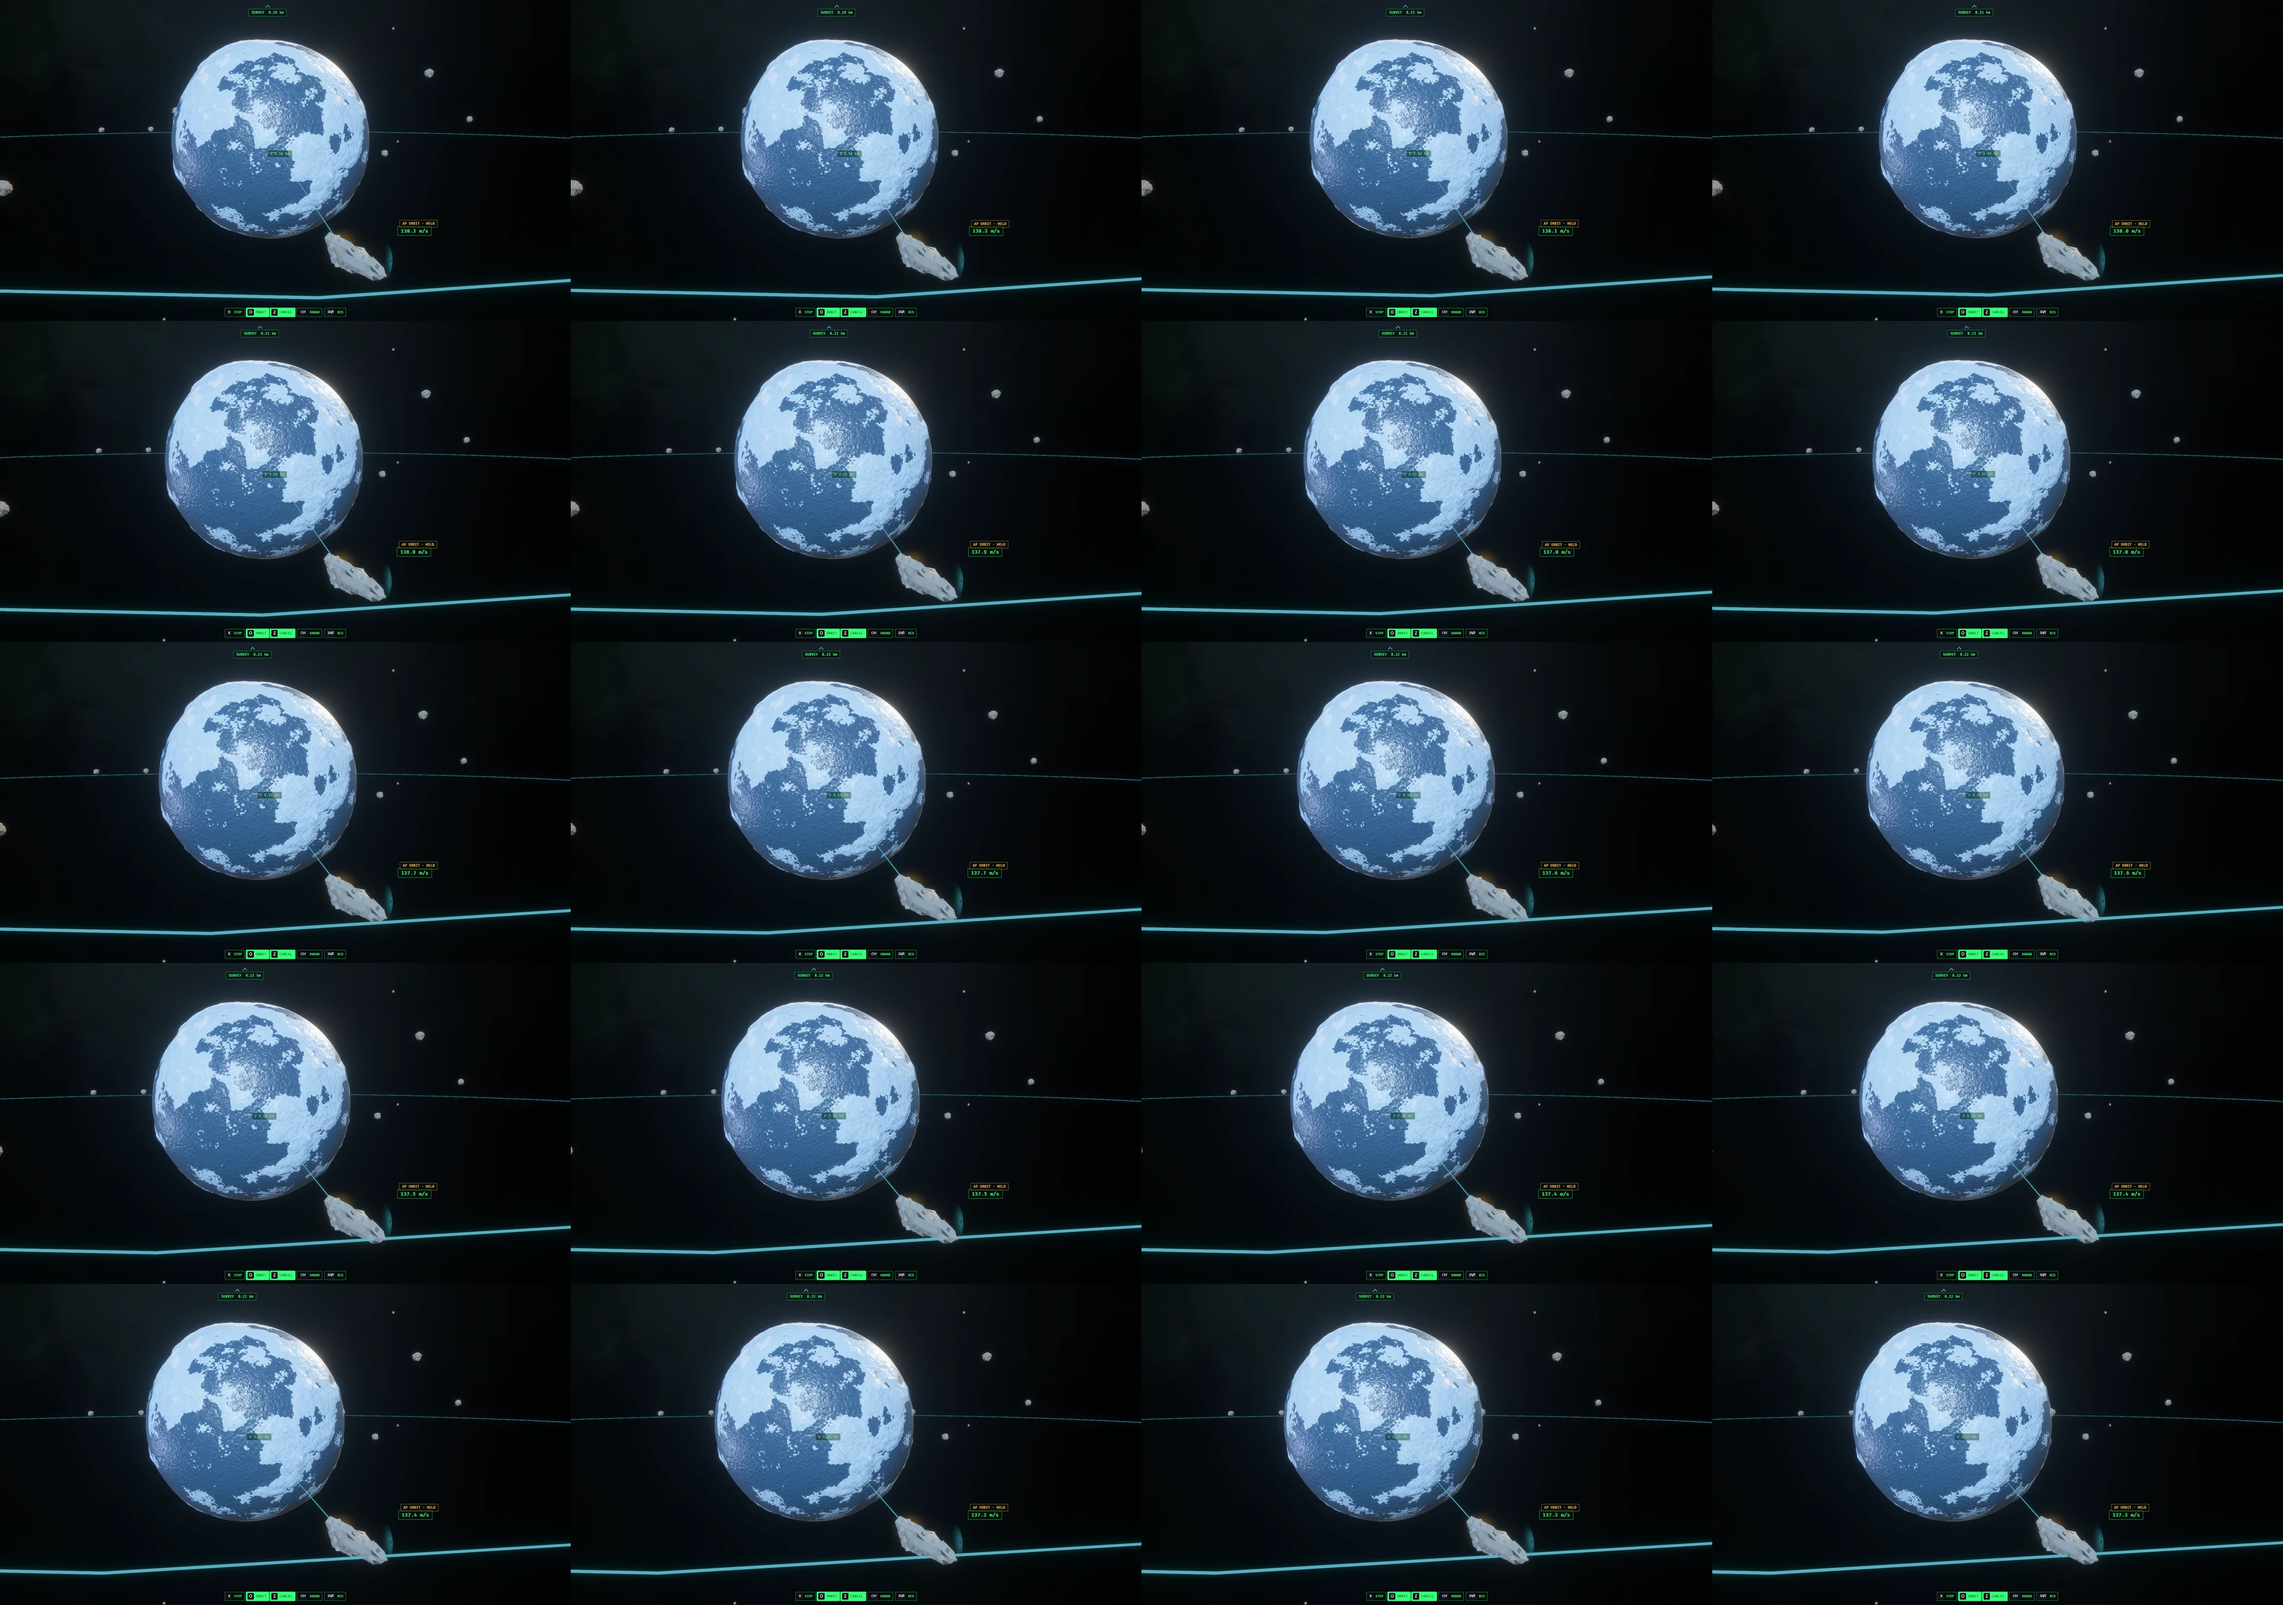
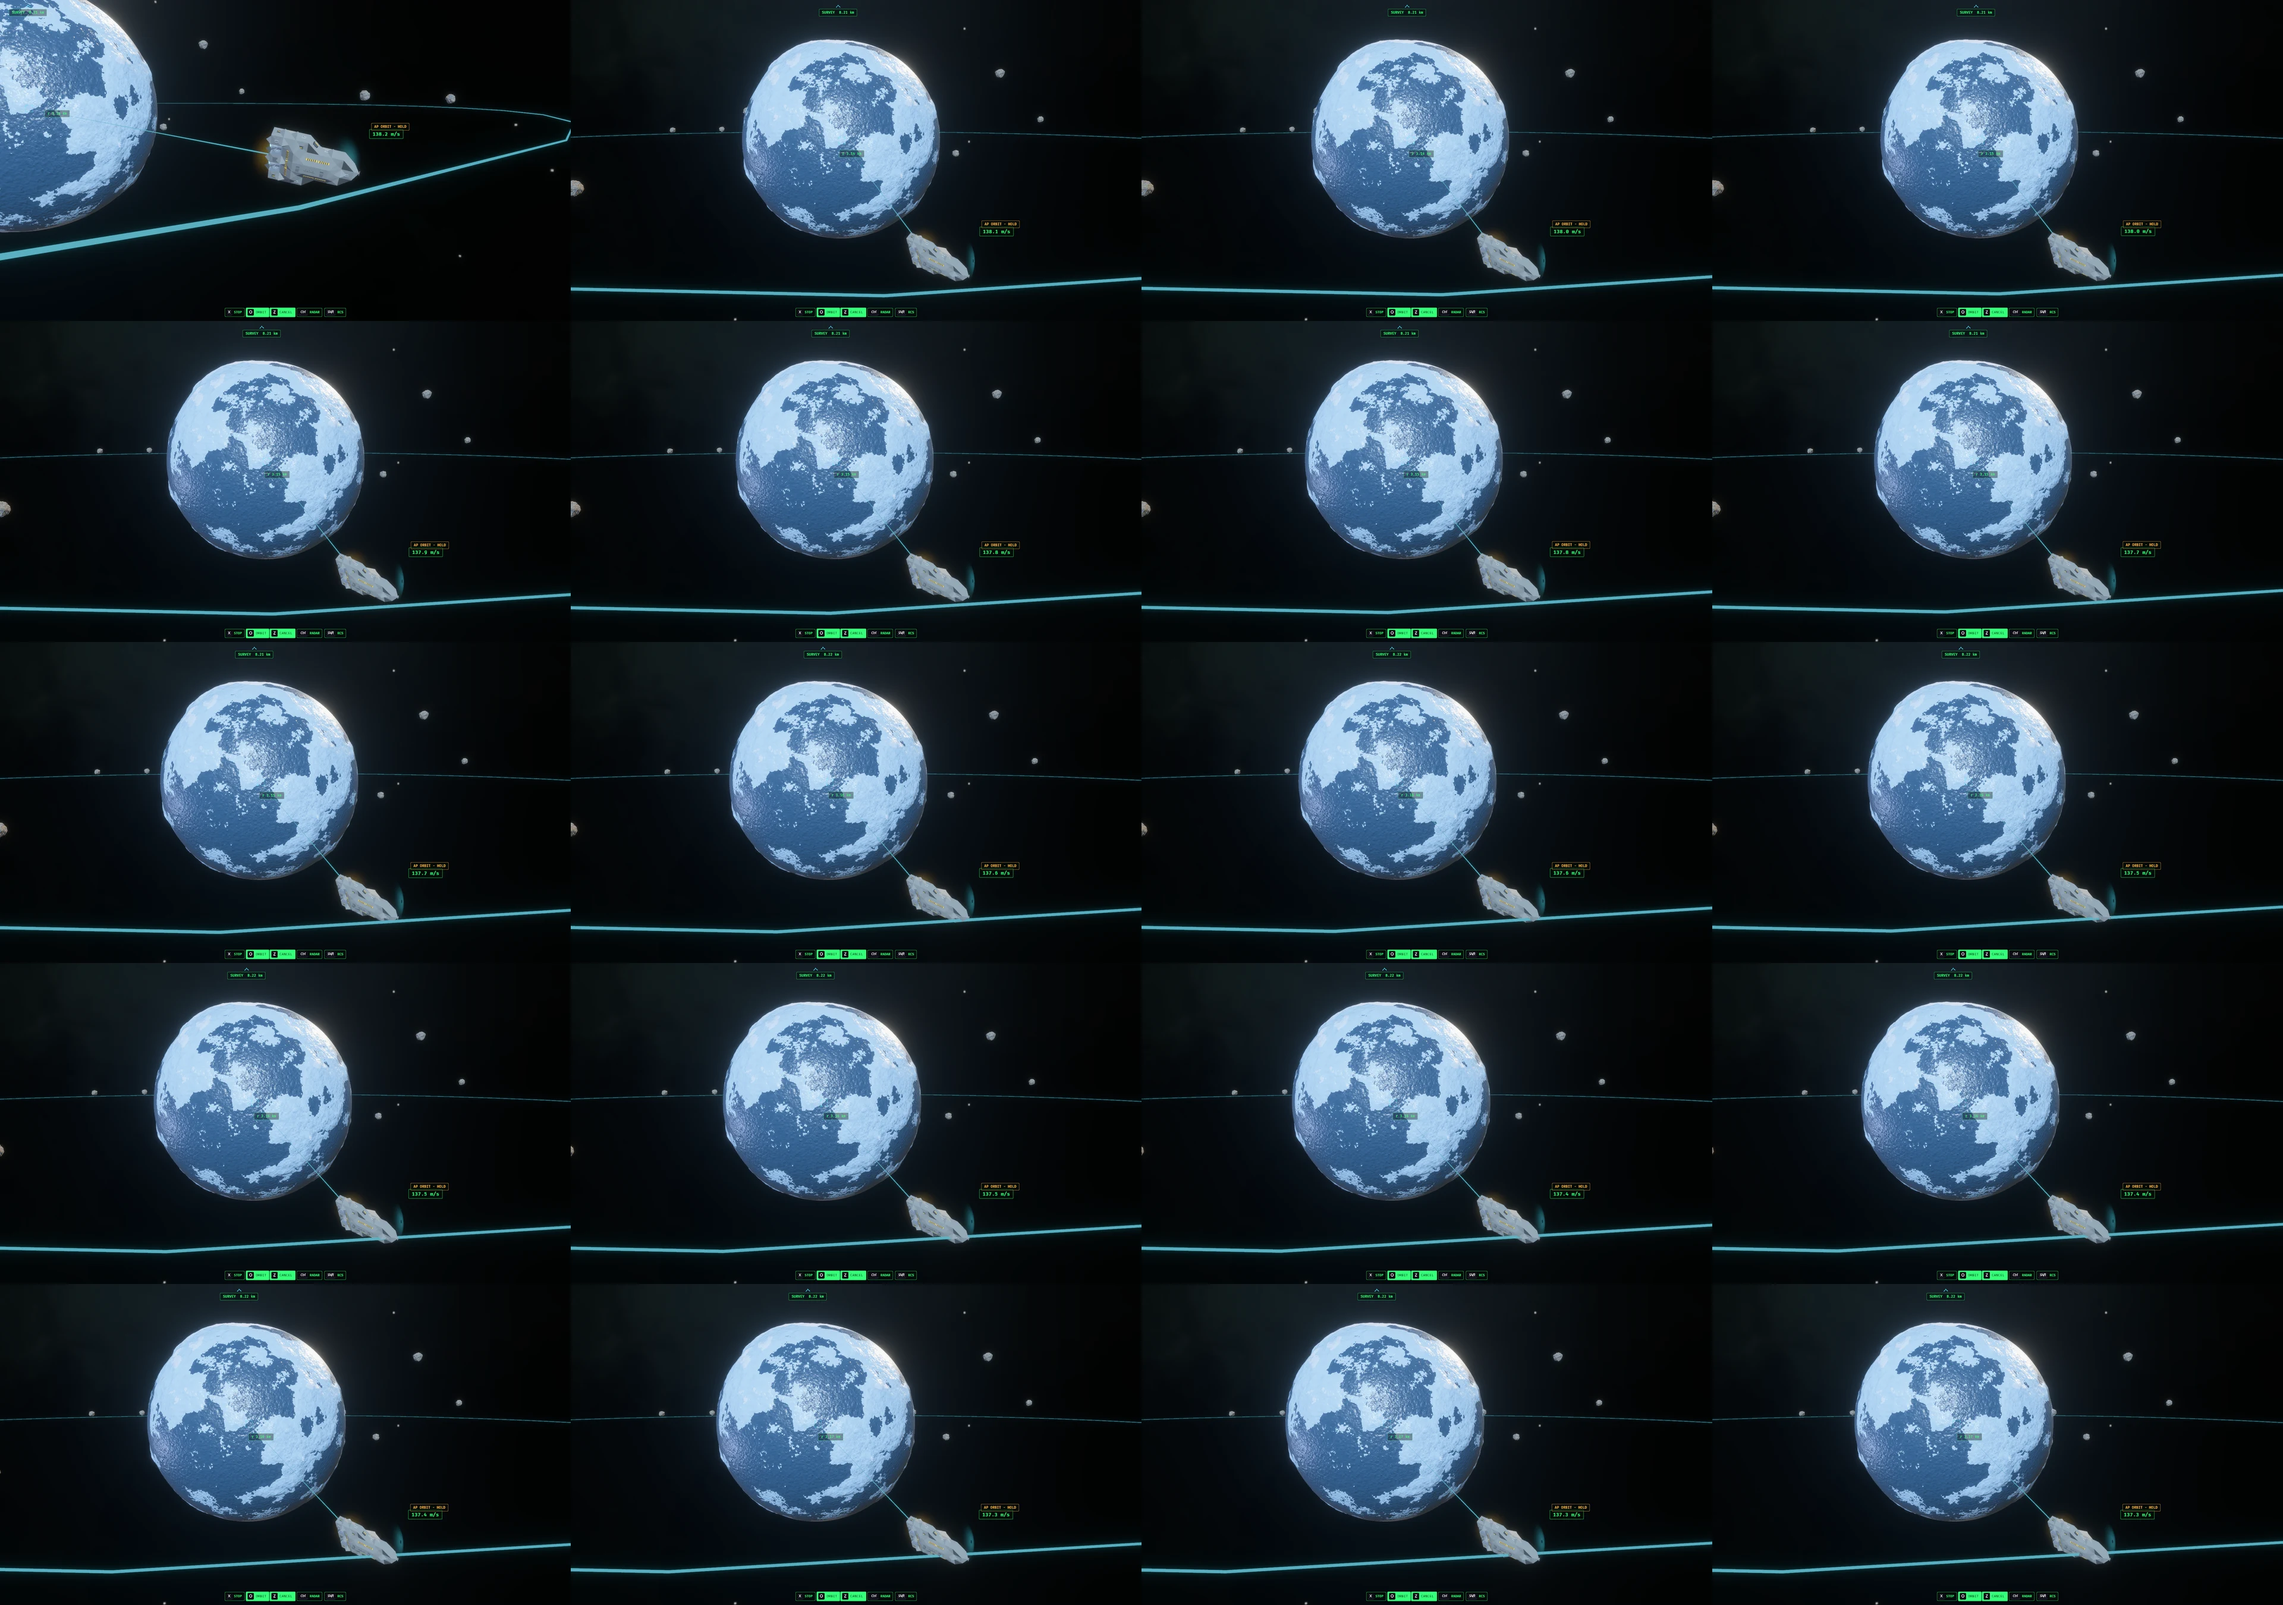
Solve the lesson chase camera where the game solves its own
A chase loop showed the ship drifting off its mark in the cell and
snapping back. The rig was solved in `Update`, and the hull is moved by
the fixed-step physics: a rendered frame carries however many fixed steps
its own length paid for, six then seven then six, so the camera was always
bracketed to where the hull had been one frame ago by a distance that
changed with the step count.

The game's own chase rig carries this exact warning - "in Update it would
lag them by a frame and jitter" - and solves in `PostUpdate`. The lesson
rig now solves there too, in `CameraAuthoritySystems::Solve`, and reads
the hull's local `Transform`: a ship root has no parent, and
`GlobalTransform` is not propagated until after the camera chain has run.

Registration moved into `lesson_chase_plugin` so no producer can order it
wrongly again. No smoothing: sampled at the right moment the rigid offset
is exact every frame, and easing toward the hull would rebuild the lag on
purpose.

Measured on `flight_speedcap`, ship centroid step from cell to cell: mean
0.48 px and an irregular sawtooth before, mean 0.18 px and flat after.
All seven chase loops recaptured.

Claude-Session: https://claude.ai/code/session_01VaaLjg4LM2CRcSojeDdX1i

diff --git a/examples/screenshots/shared/lesson.rs b/examples/screenshots/shared/lesson.rs
@@ -220,27 +220,57 @@ impl LessonChase {
     }
 }
 
-/// Ride beside the hull: an `Update` system a lesson producer adds once, inert
-/// until its step inserts a [`LessonChase`].
+/// Ride beside the hull: inert until a step inserts a [`LessonChase`].
 ///
 /// The hull it follows is the player's, which is the subject of every lesson
 /// shot this way. A frame with no player ship yet poses nothing and says so
 /// once per frame is too noisy to warn about, so it simply waits.
+///
+/// ## Why it reads the local `Transform`
+///
+/// `GlobalTransform` is written by `TransformSystems::Propagate`, which the
+/// whole camera authority chain runs BEFORE, so reading it here would sample
+/// where the hull was at the end of the previous frame. A spaceship root has
+/// no parent, so its `Transform` IS its world pose, and it is the value the
+/// physics step of THIS frame has already written.
 pub fn chase_lesson_camera(world: &mut World) {
     let Some(chase) = world.get_resource::<LessonChase>().copied() else {
         return;
     };
-    let mut hulls = world.query_filtered::<&GlobalTransform, (
-        With<SpaceshipRootMarker>,
-        With<PlayerSpaceshipMarker>,
-    )>();
+    let mut hulls = world
+        .query_filtered::<&Transform, (With<SpaceshipRootMarker>, With<PlayerSpaceshipMarker>)>();
     let Some(hull) = hulls.iter(world).next() else {
         return;
     };
-    let subject = Meters3::from_engine(hull.translation());
+    let subject = Meters3::from_engine(hull.translation);
     pose_camera(
         world,
         Meters3(subject.0 + chase.offset.0),
         Meters3(subject.0 + chase.aim.0),
+    );
+}
+
+/// Register [`chase_lesson_camera`] where a camera that follows a moving ship
+/// has to run, which is NOT `Update`.
+///
+/// The hull is moved by the fixed-step physics, and a rendered frame carries
+/// however many fixed steps its own length paid for - six of them, then seven,
+/// then six. A camera solved in `Update` is therefore always one rendered
+/// frame behind the hull it is bracketed to, by a distance that CHANGES with
+/// the step count: the ship sits off its mark in the cell, and the amount it
+/// is off by moves from frame to frame. That is the drift and snap a chase
+/// loop shows.
+///
+/// `PostUpdate` in [`CameraAuthoritySystems::Solve`] is where the game's own
+/// chase rig solves, for this reason and with this comment on it
+/// (`nova_ship/src/camera/chase.rs`): after the step that moved the hull, and
+/// before the override that writes the camera. Solved there the offset is
+/// exact every frame, so the rig needs no smoothing - a lesson chase is meant
+/// to be RIGID, and easing toward the hull would build the lag back in
+/// deliberately.
+pub fn lesson_chase_plugin(app: &mut App) {
+    app.add_systems(
+        PostUpdate,
+        chase_lesson_camera.in_set(CameraAuthoritySystems::Solve),
     );
 }

diff --git a/examples/screenshots/lesson_flight_basics.rs b/examples/screenshots/lesson_flight_basics.rs
@@ -57,7 +57,7 @@ mod lesson;
 use bevy::prelude::*;
 use clap::Parser;
 #[cfg(feature = "debug")]
-use lesson::{chase_lesson_camera, lesson_profile, LessonChase, LESSON_GRID};
+use lesson::{lesson_chase_plugin, lesson_profile, LessonChase, LESSON_GRID};
 use nova_protocol::prelude::*;
 
 #[derive(Parser)]
@@ -171,7 +171,7 @@ fn main() -> bevy::app::AppExit {
         // NOTHING is frozen: the subject of all three lessons is the hull
         // actually moving. The chase is inert until a step inserts its offset,
         // and the mouse push until the RCS beat holds it over.
-        app.add_systems(Update, chase_lesson_camera);
+        app.add_plugins(lesson_chase_plugin);
         app.add_systems(Update, push_rcs.run_if(resource_exists::<RcsPush>));
     }
 

diff --git a/examples/screenshots/lesson_flight_limits.rs b/examples/screenshots/lesson_flight_limits.rs
@@ -66,7 +66,7 @@ use std::collections::BTreeMap;
 use bevy::prelude::*;
 use clap::Parser;
 #[cfg(feature = "debug")]
-use lesson::{chase_lesson_camera, lesson_profile, LessonChase, LESSON_GRID};
+use lesson::{lesson_chase_plugin, lesson_profile, LessonChase, LESSON_GRID};
 use nova_protocol::prelude::*;
 
 #[derive(Parser)]
@@ -163,7 +163,7 @@ fn main() -> bevy::app::AppExit {
         // NOTHING is frozen: both subjects are the hull actually travelling,
         // and the rocks going past are how the reader knows it is. The chase
         // is inert until a step inserts its offset.
-        app.add_systems(Update, chase_lesson_camera);
+        app.add_plugins(lesson_chase_plugin);
     }
 
     app.run()

diff --git a/examples/screenshots/lesson_flight_orders.rs b/examples/screenshots/lesson_flight_orders.rs
@@ -45,7 +45,7 @@ mod ring;
 use bevy::prelude::*;
 use clap::Parser;
 #[cfg(feature = "debug")]
-use lesson::{chase_lesson_camera, lesson_profile, LessonChase, LESSON_GRID};
+use lesson::{lesson_chase_plugin, lesson_profile, LessonChase, LESSON_GRID};
 use nova_protocol::prelude::*;
 
 #[derive(Parser)]
@@ -117,7 +117,7 @@ fn main() -> bevy::app::AppExit {
         // Nothing frozen and nothing posed by hand: both subjects are the
         // flight computer flying the hull. The chase is inert until a step
         // inserts its offset.
-        app.add_systems(Update, chase_lesson_camera);
+        app.add_plugins(lesson_chase_plugin);
     }
 
     app.run()
